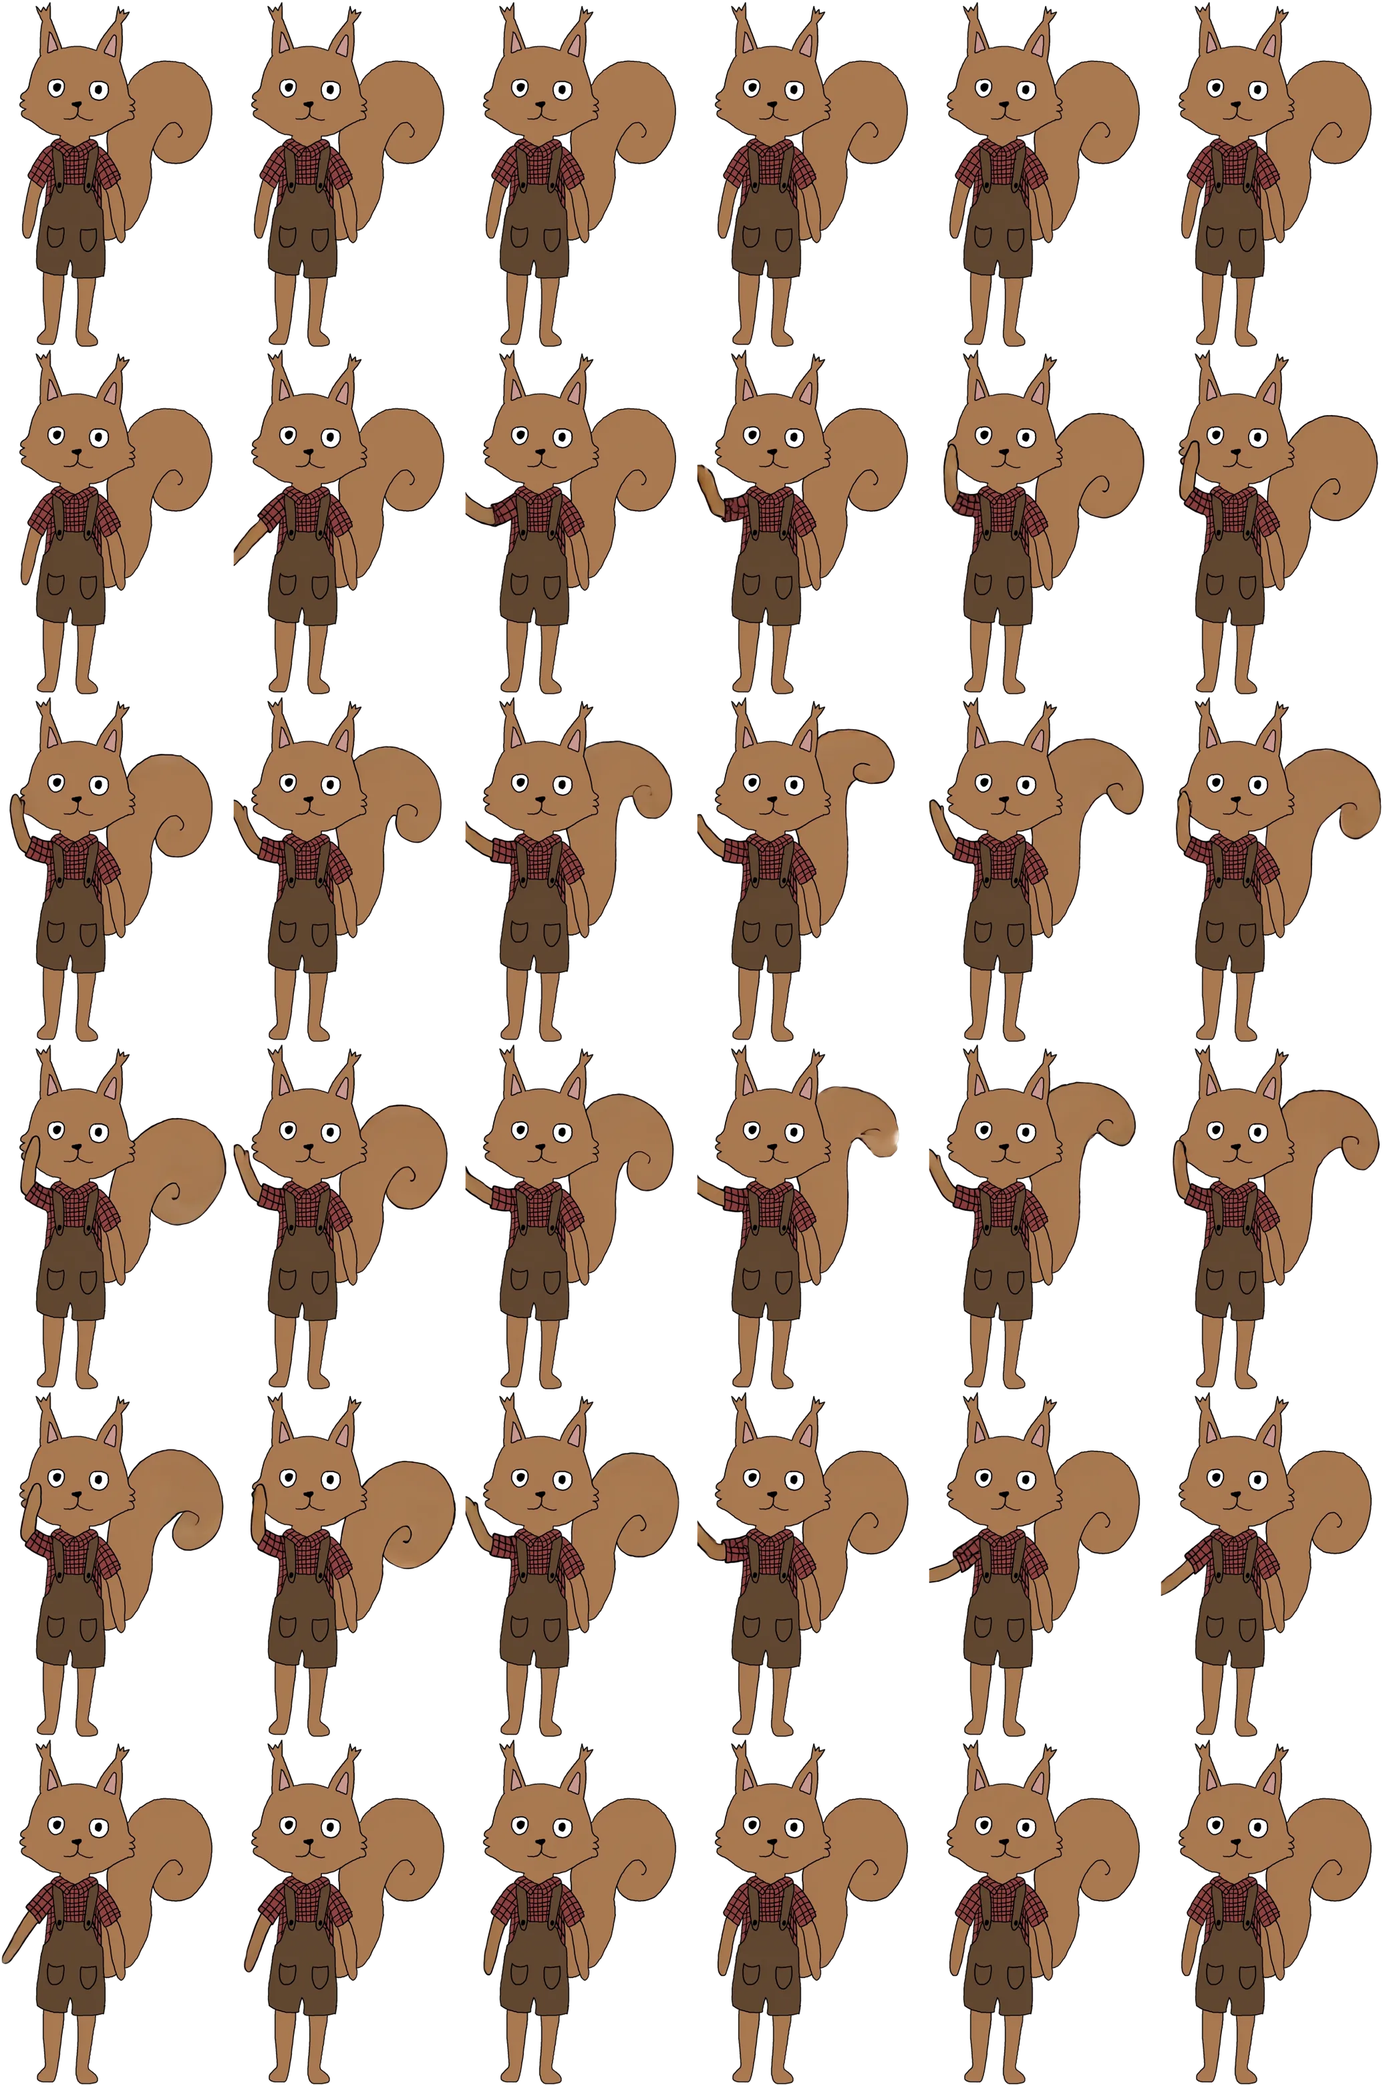
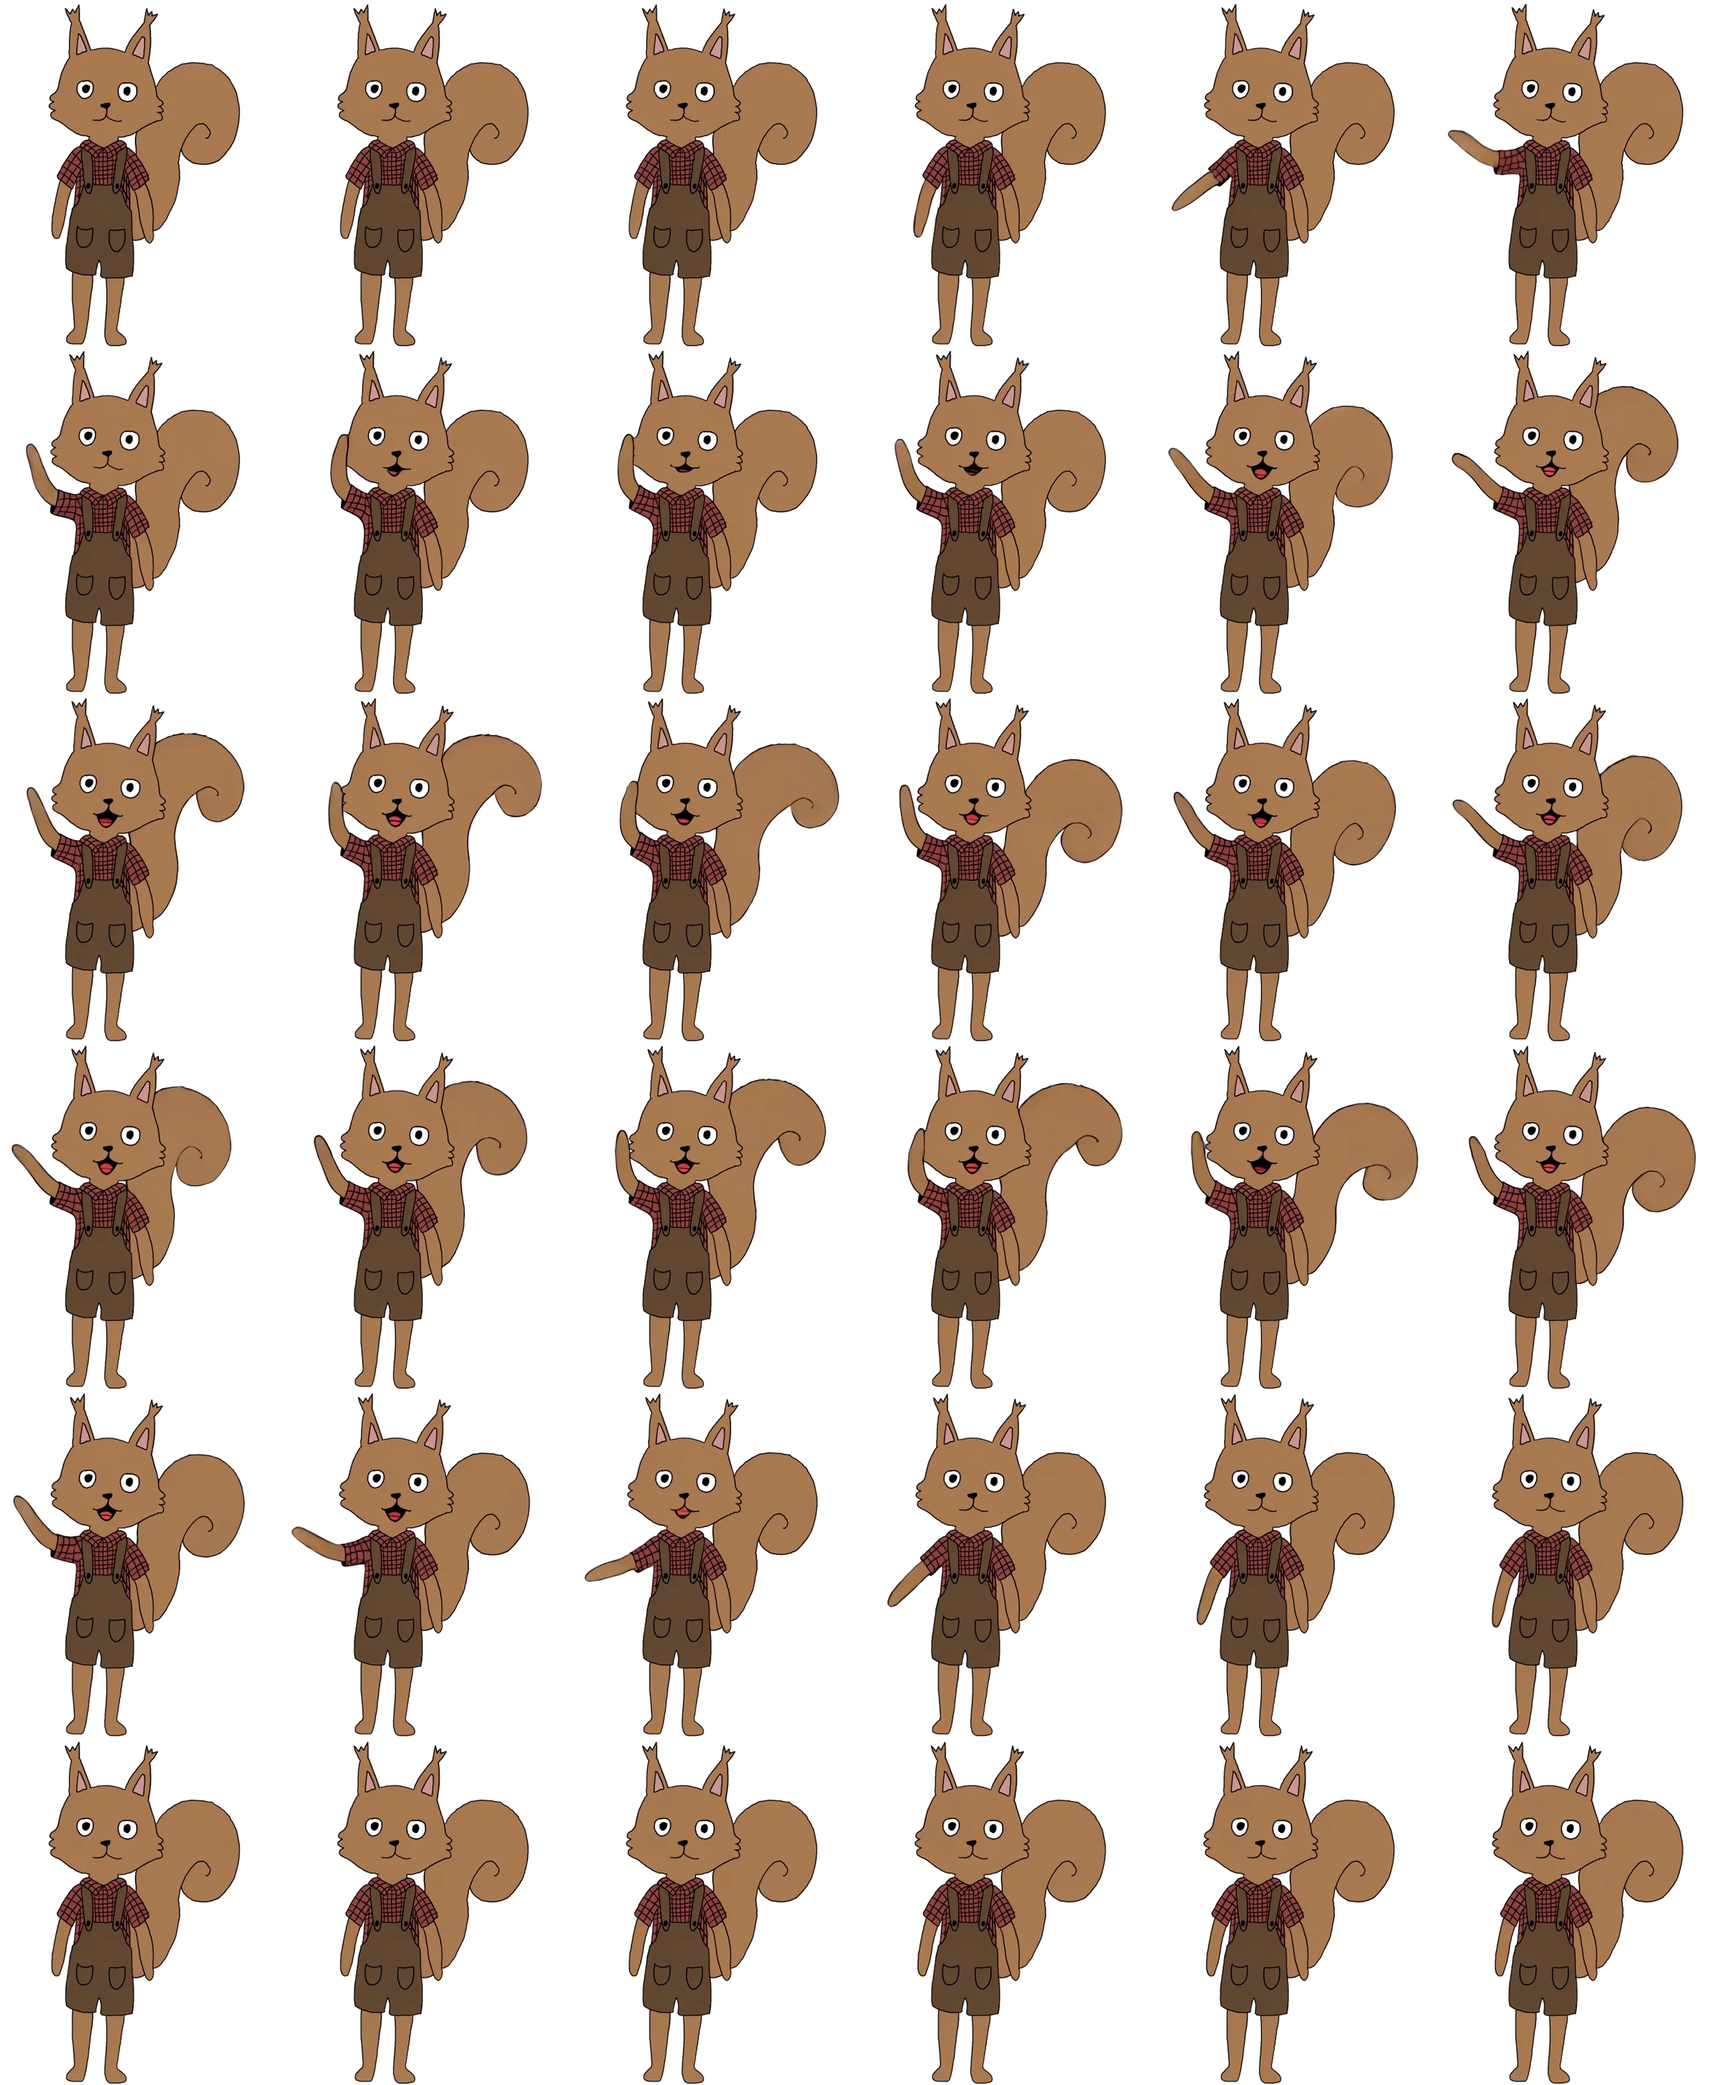
첫 화면 대기 동작을 '한 명씩 인사'로 바꾸고 그림자를 발밑에 맞춤
- 다 같이 둥실 떠오르던 동작 삭제, 몇 초마다 한 명씩 돌아가며 손 인사
- 그림자: 캐릭터별 발 위치·폭에 맞춘 발밑 그림자
- 람다 인사 영상 다시 생성 (손이 화면 밖으로 잘리던 문제)
- 장면 동작은 한 번 한 뒤 5초쯤 쉬었다 반복

Claude-Session: https://claude.ai/code/session_01Pmwfgxf9UDZgRtw85Z5VnG

Changed region(s): [[0.0, 0.0, 0.999, 1.0], [0.9678, 0.8705, 0.999, 0.9016]]

diff --git a/index.html b/index.html
@@ -113,12 +113,11 @@ h1,h2,h3{font-family:var(--font-hand);font-weight:700;line-height:1.2;text-wrap:
 .slot{position:relative;flex:none;height:100%;display:flex;align-items:flex-end;justify-content:center;padding:0;pointer-events:none}
 .slot:focus-visible .fig{outline:3px solid var(--purple);outline-offset:4px;border-radius:12px}
 .fig{position:relative;display:flex;align-items:flex-end;justify-content:center;transition:height .55s cubic-bezier(.3,1.25,.45,1),opacity .35s}
-.fig canvas{height:100%;width:auto;display:block;position:relative;z-index:1;transform-origin:50% 100%;animation:breathe 2.8s ease-in-out infinite}
-.fig::after{content:"";position:absolute;left:50%;bottom:-10px;width:110%;height:24px;transform:translateX(-50%);border-radius:50%;background:radial-gradient(closest-side,rgba(60,50,35,.38),rgba(60,50,35,.14) 60%,rgba(60,50,35,0))}
-.slot.on .fig canvas{animation:none}
+.fig canvas{height:100%;width:auto;display:block;position:relative;z-index:1;transform-origin:50% 100%}
+/* 그림자: 캐릭터마다 실제 발 위치·폭에 맞춰 발밑에만 (11/3) */
+.shd{position:absolute;bottom:0;aspect-ratio:5/1;transform:translate(-50%,42%);border-radius:50%;background:radial-gradient(closest-side,rgba(72,58,44,.44),rgba(72,58,44,.32) 60%,rgba(72,58,44,.12) 82%,rgba(72,58,44,0));mix-blend-mode:multiply;pointer-events:none;z-index:0}
 .stage.picked .slot:not(.on) .fig{opacity:.55}
 .slot.on{z-index:3}
-@keyframes breathe{0%,100%{transform:translateY(0) scale(1,1)}50%{transform:translateY(-1%) scale(.992,1.014)}}
 .say{position:absolute;z-index:7;width:min(340px,88vw);border-radius:22px;background:#fff;padding:14px 18px 16px;display:grid;gap:6px;opacity:0;transform:translateY(10px);transition:opacity .25s,transform .3s;pointer-events:none}
 .say.show{opacity:1;transform:none;pointer-events:auto}
 .say .nm{font-family:var(--font-hand);font-weight:700;font-size:24px;line-height:1.1}
@@ -175,9 +174,8 @@ h1,h2,h3{font-family:var(--font-hand);font-weight:700;line-height:1.2;text-wrap:
 .scene{position:relative;scroll-margin-top:60px}
 .scene .pic{position:relative;overflow:hidden;aspect-ratio:16/9;max-height:84svh;width:100%}
 .scene .bg{position:absolute;inset:-6% 0;background-size:cover;background-position:center;will-change:transform}
-.scene .actor{position:absolute;bottom:7%;z-index:2;transform-origin:50% 100%;animation:breathe 3s ease-in-out infinite}
+.scene .actor{position:absolute;bottom:7%;z-index:2}
 .scene .actor canvas{height:100%;width:auto;max-width:none;display:block;position:relative;z-index:1}
-.scene .actor::after{content:"";position:absolute;left:50%;bottom:-9px;width:100%;height:22px;transform:translateX(-50%);border-radius:50%;background:radial-gradient(closest-side,rgba(80,60,35,.32),rgba(80,60,35,0))}
 .scene .card{position:absolute;top:8%;z-index:3;width:min(400px,40%);border-radius:22px;background:#fff;padding:22px 24px;display:grid;gap:8px}
 .scene.L .card{left:max(18px,5%)}.scene.R .card{right:max(18px,5%)}
 .card .where{font-size:13px;color:var(--ink-soft)}
@@ -231,11 +229,9 @@ footer .wrap{display:flex;flex-wrap:wrap;gap:12px 24px;align-items:center;justif
 .mail a{color:var(--ink);font-weight:700;text-decoration:none;user-select:all}
 .copy{font-size:14px;padding:2px 12px;border-radius:999px;background:#fff;min-height:32px}
 
-@media (prefers-reduced-motion:reduce){.fig canvas,.scene .actor{animation:none}}
 </style>
 </head>
 <body>
-
 
 <svg width="0" height="0" style="position:absolute" aria-hidden="true" focusable="false">
   <filter id="wobble"><feTurbulence type="fractalNoise" baseFrequency="0.022" numOctaves="2" seed="5"/><feDisplacementMap in="SourceGraphic" scale="3.2"/></filter>
@@ -331,7 +327,11 @@ const IG="https://www.instagram.com/somsomcity.official/", YT="https://www.youtu
 const igSvg='<svg viewBox="0 0 24 24" aria-hidden="true"><path fill="currentColor" d="M12 2.2c3.2 0 3.6 0 4.8.1 3.3.1 4.8 1.7 4.9 4.9.1 1.3.1 1.6.1 4.8s0 3.6-.1 4.8c-.1 3.2-1.7 4.8-4.9 4.9-1.3.1-1.6.1-4.8.1s-3.6 0-4.8-.1c-3.3-.1-4.8-1.7-4.9-4.9C2.2 15.6 2.2 15.2 2.2 12s0-3.6.1-4.8C2.4 3.9 3.9 2.4 7.2 2.3 8.4 2.2 8.8 2.2 12 2.2zm0 4.7a5.1 5.1 0 100 10.2 5.1 5.1 0 000-10.2zm0 8.4a3.3 3.3 0 110-6.6 3.3 3.3 0 010 6.6zm5.3-9.8a1.2 1.2 0 100 2.4 1.2 1.2 0 000-2.4z"/></svg>';
 const ytSvg='<svg viewBox="0 0 24 24" aria-hidden="true"><path fill="currentColor" d="M23 7.2a3 3 0 00-2.1-2.1C19 4.6 12 4.6 12 4.6s-7 0-8.9.5A3 3 0 001 7.2 31 31 0 00.5 12a31 31 0 00.5 4.8 3 3 0 002.1 2.1c1.9.5 8.9.5 8.9.5s7 0 8.9-.5a3 3 0 002.1-2.1 31 31 0 00.5-4.8 31 31 0 00-.5-4.8zM9.7 15.1V8.9l5.8 3.1-5.8 3.1z"/></svg>';
 const ANIM2={"kkito": {"n": 36, "w": 136, "h": 520, "cols": 6}, "boneul": {"n": 36, "w": 274, "h": 520, "cols": 6}, "migae": {"n": 36, "w": 678, "h": 520, "cols": 6}, "ramda": {"n": 36, "w": 312, "h": 520, "cols": 6}, "lachilchin": {"n": 36, "w": 303, "h": 520, "cols": 6}, "bookgeo": {"n": 36, "w": 494, "h": 520, "cols": 6}};
-const ANIM={"kkito": {"n": 36, "w": 231, "h": 520, "cols": 6}, "boneul": {"n": 36, "w": 488, "h": 520, "cols": 6}, "migae": {"n": 36, "w": 509, "h": 520, "cols": 6}, "ramda": {"n": 36, "w": 347, "h": 520, "cols": 6}, "lachilchin": {"n": 36, "w": 317, "h": 520, "cols": 6}, "bookgeo": {"n": 36, "w": 577, "h": 520, "cols": 6}};
+/* 발 위치: [가운데 %, 발 폭 %] — 스프라이트 첫 프레임 바닥 5%에서 잰 값 */
+const FOOT={"kkito":[43.7,33.8],"boneul":[48.9,33.4],"migae":[74.1,27.9],"ramda":[33.3,20.8],"lachilchin":[44.5,44.2],"bookgeo":[50.3,74.9]};
+const FOOT2={"kkito":[37.5,57.4],"boneul":[46.7,59.1],"migae":[69.5,26.8],"ramda":[27.1,29.2],"lachilchin":[44.2,46.2],"bookgeo":[50.3,86.8]};
+const shdH=f=>`<i class="shd" aria-hidden="true" style="left:${f[0]}%;width:${Math.max(f[1]*1.35,18)}%"></i>`;
+const ANIM={"kkito": {"n": 36, "w": 231, "h": 520, "cols": 6}, "boneul": {"n": 36, "w": 488, "h": 520, "cols": 6}, "migae": {"n": 36, "w": 509, "h": 520, "cols": 6}, "ramda": {"n": 36, "w": 432, "h": 520, "cols": 6}, "lachilchin": {"n": 36, "w": 317, "h": 520, "cols": 6}, "bookgeo": {"n": 36, "w": 577, "h": 520, "cols": 6}};
 /* 캐논·확정 보드 기준. 임시 = 은녕 확인 필요 */
 const P=[
  {id:"lachilchin",ko:"라칠친할머니",en:"LACHILCHIN",mod:"동네 어른",t:1,h:53,hi:"그래~",pose:"tea",bg:"granny",side:"R",where:"당근빌라, 할머니 집",
@@ -363,7 +363,7 @@ document.querySelectorAll("[data-faces]").forEach(n=>n.innerHTML=ORDER.map(id=>`
 /* ---------- 1. 동네 입구: PC는 한 줄로, 휴대폰은 한 칸씩 넘기기 ---------- */
 const stage=document.getElementById("stage"),track=document.getElementById("track"),bg=document.getElementById("bg"),say=document.getElementById("say"),hint=document.getElementById("hint");
 const sprite={};P.forEach(p=>{const im=new Image();im.src=`img/anim_${p.id}.webp`;sprite[p.id]=im;});
-track.innerHTML=P.map((p,i)=>`<button class="slot" type="button" role="option" data-i="${i}" aria-label="${p.ko}에게 인사하기"><span class="fig"><canvas width="${ANIM[p.id].w}" height="${ANIM[p.id].h}"></canvas></span></button>`).join("");
+track.innerHTML=P.map((p,i)=>`<button class="slot" type="button" role="option" data-i="${i}" aria-label="${p.ko}에게 인사하기"><span class="fig">${shdH(FOOT[p.id])}<canvas width="${ANIM[p.id].w}" height="${ANIM[p.id].h}"></canvas></span></button>`).join("");
 const slots=[...track.children], cvs=slots.map(s=>s.querySelector("canvas"));
 function draw(i,f){const id=P[i].id,a=ANIM[id],im=sprite[id],c=cvs[i].getContext("2d");if(!im.complete||!im.naturalWidth)return;c.clearRect(0,0,a.w,a.h);c.drawImage(im,(f%a.cols)*a.w,Math.floor(f/a.cols)*a.h,a.w,a.h,0,0,a.w,a.h);}
 P.forEach((p,i)=>sprite[p.id].addEventListener("load",()=>draw(i,0)));
@@ -380,7 +380,7 @@ function layout(){
   if(mob){track.style.transform=`translateX(${W/2-(Math.max(cur,0)+.5)*SW+dragX}px)`;const room=bg.offsetWidth-W;bg.style.transform=`translateX(${-(Math.max(cur,0)/(P.length-1))*Math.max(0,room)-dragX*.3}px)`;}
   else{track.style.transform=`translateX(${(W-SW*P.length)/2}px)`;bg.style.transform="";}
 }
-function play(i){cancelAnimationFrame(raf);const n=ANIM[P[i].id].n;let f=0,last=0;
+function play(i){cancelAnimationFrame(raf);if(idleRaf&&idleI===i){cancelAnimationFrame(idleRaf);idleRaf=null;idleT=setTimeout(idleNext,2800);}const n=ANIM[P[i].id].n;let f=0,last=0;
   const step=t=>{if(t-last>=83){draw(i,f);f++;last=t;}if(f<n)raf=requestAnimationFrame(step);else{draw(i,0);raf=null;}};raf=requestAnimationFrame(step);}
 function showSay(i){const p=P[i];
   say.innerHTML=`<p class="nm">${esc(p.ko)}<small>${modH(p)}</small></p><p class="line">${hiH(p)}</p><a class="btn fill hand" href="#s-${p.id}" data-go>우리 집 놀러 가기 →</a><svg class="tail" viewBox="0 0 24 16" aria-hidden="true"><path d="M2 0 L12 15 L22 0" fill="#fff" stroke="#22231F" stroke-width="2" stroke-linejoin="round"/></svg>`;
@@ -407,6 +407,21 @@ function hitTest(x,y){
     try{if(cv.getContext("2d").getImageData(px,py,1,1).data[3]>30)return i;}catch(e){return i;}}
   let best=-1,bd=1e9;slots.forEach((_,i)=>{const r=cvs[i].getBoundingClientRect();if(y<r.top-24||y>r.bottom+24)return;const d=Math.abs(x-(r.left+r.width/2));if(d<bd&&d<Math.max(30,r.width*.45)){bd=d;best=i;}});
   return best;}
+/* 평소엔 멈춰 있고, 화면에 보이는 이웃 중 한 명씩 돌아가며 인사 (11/3, B안) */
+let idleRaf=null,idleI=-1,idleT=null,stageVis=true,idleN=0;
+const IDLE_ORDER=[2,1,5,3,0,4];
+function idleNext(){clearTimeout(idleT);idleT=null;if(reduce||!stageVis)return;
+  const sr=stage.getBoundingClientRect();
+  const cand=IDLE_ORDER.filter(i=>{const r=cvs[i].getBoundingClientRect();return r.left>=sr.left-4&&r.right<=sr.right+4&&!(raf&&i===cur);});
+  if(!cand.length){idleT=setTimeout(idleNext,2800);return;}
+  let i=cand[idleN++%cand.length];if(i===idleI&&cand.length>1)i=cand[idleN++%cand.length];idleI=i;
+  const n=ANIM[P[i].id].n;let f=0,last=0;
+  const step=t=>{if(raf&&i===cur){idleRaf=null;idleT=setTimeout(idleNext,2800);return;}
+    if(t-last>=83){draw(i,f);f++;last=t;}
+    if(f<n)idleRaf=requestAnimationFrame(step);else{draw(i,0);idleRaf=null;idleT=setTimeout(idleNext,2800);}};
+  idleRaf=requestAnimationFrame(step);}
+function idleStop(){clearTimeout(idleT);idleT=null;if(idleRaf){cancelAnimationFrame(idleRaf);idleRaf=null;if(idleI>=0)draw(idleI,0);}}
+new IntersectionObserver(es=>es.forEach(e=>{stageVis=e.isIntersecting;if(stageVis){if(!idleRaf&&!idleT)idleT=setTimeout(idleNext,1500);}else idleStop();}),{threshold:.3}).observe(stage);
 function choose(i){if(i<0)return;if(i===cur){play(i);showSay(i);}else pick(i);}
 stage.addEventListener("click",e=>{if(moved||e.target.closest(".say,.arrow,.float-menu,a"))return;choose(hitTest(e.clientX,e.clientY));});
 slots.forEach((s,i)=>s.addEventListener("keydown",ev=>{if(ev.key==="Enter"||ev.key===" "){ev.preventDefault();choose(i);}}));
@@ -450,7 +465,7 @@ document.querySelector("[data-scenes]").innerHTML=ORDER.map(id=>{const p=by[id];
   const ah={kkito:68,boneul:64,ramda:46,lachilchin:37,bookgeo:44,migae:25}[id];
   return `<section class="scene ${p.side==="R"?"L":"R"}" id="s-${id}" data-scene="${id}">
    <div class="pic"><div class="bg" style="background-image:url(img/bg_${p.bg}.jpg)"></div>
-     <div class="actor" style="height:${ah}%;${actorSide}"><canvas data-act="${id}" width="${ANIM2[id].w}" height="${ANIM2[id].h}" role="img" aria-label="${esc(p.ko)}"></canvas></div></div>
+     <div class="actor" style="height:${ah}%;${actorSide}">${shdH(FOOT2[id])}<canvas data-act="${id}" width="${ANIM2[id].w}" height="${ANIM2[id].h}" role="img" aria-label="${esc(p.ko)}"></canvas></div></div>
    <div class="card hand"><p class="where">${esc(p.where)}${p.wt?'<span class="temp">제안 설정</span>':''}</p>
      <h3 class="nm">${esc(p.ko)}<small>${modH(p)}</small></h3>
      <p class="line">${hiH(p)}</p><p class="desc">${esc(p.desc)}</p>
@@ -458,7 +473,7 @@ document.querySelector("[data-scenes]").innerHTML=ORDER.map(id=>{const p=by[id];
   </section>`;}).join("");
 
 
-/* ---------- 이웃 장면: 대표 동작 반복 (보일 때만, 한 번 하고 잠깐 쉬었다 다시) ---------- */
+/* ---------- 이웃 장면: 보이면 대표 동작 한 번, 그다음엔 5초쯤 쉬었다 다시. 누르면 바로 ---------- */
 const sp2={};
 document.querySelectorAll("canvas[data-act]").forEach(cv=>{const id=cv.dataset.act,a=ANIM2[id],im=new Image();im.src=`img/anim2_${id}.webp`;sp2[id]=im;
   const ctx=cv.getContext("2d");let f=0,last=0,rest=0,vis=false,run=false;
@@ -466,7 +481,7 @@ document.querySelectorAll("canvas[data-act]").forEach(cv=>{const id=cv.dataset.a
   im.addEventListener("load",()=>drawF(0));
   const loop=t=>{if(!vis){run=false;return;}
     if(t<rest){requestAnimationFrame(loop);return;}
-    if(t-last>=83){drawF(f);f++;last=t;if(f>=a.n){f=0;drawF(0);rest=t+1600;}}
+    if(t-last>=83){drawF(f);f++;last=t;if(f>=a.n){f=0;drawF(0);rest=t+5200;}}
     requestAnimationFrame(loop);};
   new IntersectionObserver(es=>es.forEach(e=>{vis=e.isIntersecting;if(vis&&!run&&!reduce){run=true;rest=performance.now()+400;requestAnimationFrame(loop);}}),{threshold:.35}).observe(cv);
   cv.parentElement.addEventListener("click",()=>{f=0;rest=0;});
@@ -516,6 +531,5 @@ function init(){layout();P.forEach((p,i)=>draw(i,0));if(isMob())pick(2,false);}
 addEventListener("load",()=>{init();ScrollTrigger.refresh();});
 init();
 </script>
-
 </body>
 </html>
